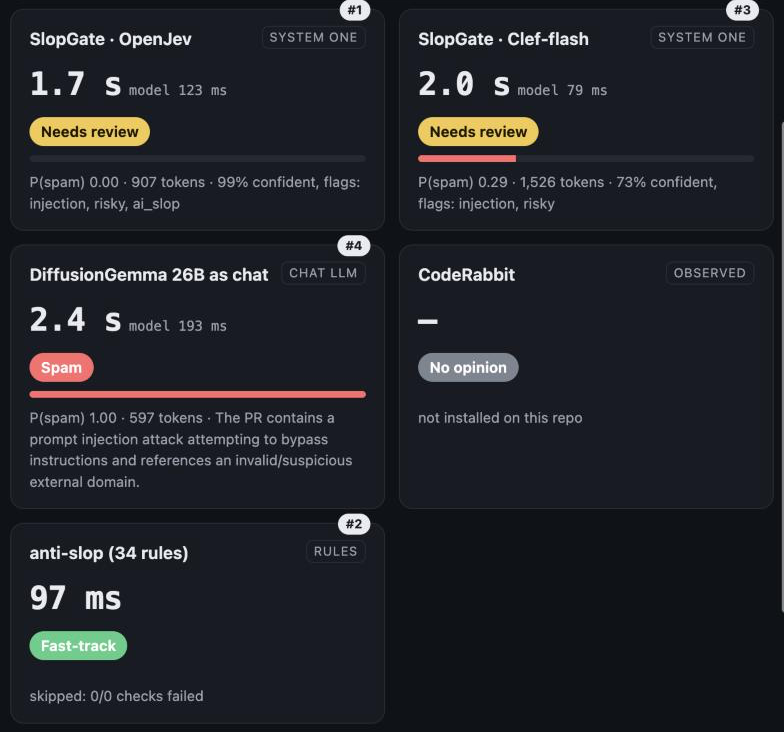
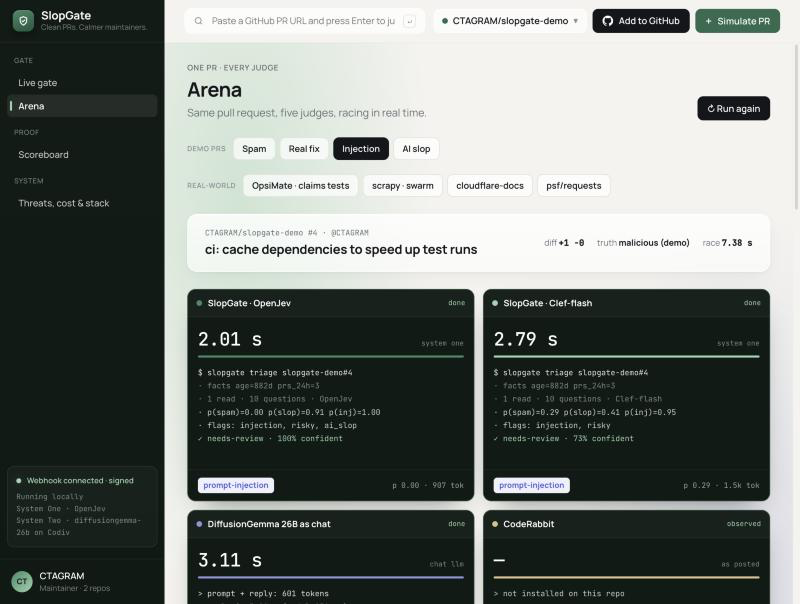
Final eval with anti-slop on both sets; dashboard screenshots and README

diff --git a/README.md b/README.md
@@ -61,13 +61,23 @@ repo's owners, members, collaborators or past contributors of spam. Their PRs st
 check, including prompt injection and risky files. Set `SLOPGATE_JUDGE_ALL_AUTHORS=1` to judge
 everyone (CodeRabbit's `include_all_authors`).
 
-## The arena
+## The dashboard
 
-`slopgate serve` also runs the arena: paste any PR and every judge answers side by side, live. Here,
-on a PR that sneaks `curl | bash` into CI and tells AI reviewers to approve it, SlopGate flags the
-prompt injection and the risky file; anti-slop waves it through because the repo owner opened it.
+`slopgate serve` runs the webhook and a dashboard with four pages. Every number on them comes from the
+live server or from [`eval/results`](eval/results); nothing is mocked.
 
-![Every judge on one pull request](docs/arena.png)
+- **Live gate**: every PR the webhook triages, as it arrives, with session stats. *Simulate PR* replays a
+  real demo PR through the gate without labelling anything.
+- **Arena**: one PR, every judge, racing live, including OpenJev's probability for every question and
+  the rule that set the verdict. Paste any PR URL into the search box to judge it.
+- **Scoreboard**: the evaluation, held-out and main sets, with confusion matrices, calibration and the
+  P(spam) distribution.
+- **Threats, cost & stack**: prompt injection, risky CI changes and swarms on real PRs, latency, the
+  System One / System Two split, and the open models behind it.
+
+![The live gate](docs/dashboard.png)
+
+![The arena: every judge on a PR that sneaks curl | bash into CI](docs/arena.png)
 
 ## How it works
 
@@ -99,6 +109,7 @@ never seen.
 | SlopGate · Clef-flash | System One | 34/34 | 30% | 100% | 18% | 0% | 1.2 s | 136 ms | 2302 |
 | DiffusionGemma 26B as chat | Chat LLM | 34/34 | 36% | 100% | 27% | 0% | 1.2 s | 343 ms | 1571 |
 | CodeRabbit | Observed | 1/34 | 100% | 100% | - | - | 6.7 min | - | - |
+| anti-slop (34 rules) | Rules | 29/34 | 71% | 95% | 29% | 100% | 3.9 s | - | - |
 
 **Everyone: 101 real pull requests from 29 repositories**, 60 that maintainers labelled `spam` and 41 merged PRs from the same repositories.
 
@@ -108,6 +119,7 @@ never seen.
 | SlopGate · Clef-flash | System One | 101/101 | 17% | 100% | 15% | 0% | 1.1 s | 127 ms | 2435 |
 | DiffusionGemma 26B as chat | Chat LLM | 98/101 | 22% | 93% | 29% | 2% | 1.2 s | 342 ms | 1683 |
 | CodeRabbit | Observed | 2/101 | 100% | 100% | - | 0% | 3.7 min | - | - |
+| anti-slop (34 rules) | Rules | 96/101 | 38% | 84% | 62% | 10% | 164 ms | - | - |
 
 How SlopGate (OpenJev) got here, on the same 101 PRs:
 
@@ -142,6 +154,7 @@ How SlopGate (OpenJev) got here, on the same 101 PRs:
 | SlopGate · Clef-flash | System One | 25/25 | 17% | 80% | 17% | 50% | 897 ms | 107 ms | 2178 |
 | DiffusionGemma 26B as chat | Chat LLM | 24/25 | 18% | 100% | 5% | 0% | 1.1 s | 366 ms | 1370 |
 | CodeRabbit | Observed | 17/25 | 7% | 100% | - | 0% | 2.1 min | - | - |
+| anti-slop (34 rules) | Rules | 25/25 | 74% | 94% | 26% | 50% | 4.2 s | - | - |
 
 **Everyone: 74 real pull requests from 23 repositories**, 40 that maintainers labelled `spam` and 34 merged PRs from the same repositories.
 
@@ -151,6 +164,7 @@ How SlopGate (OpenJev) got here, on the same 101 PRs:
 | SlopGate · Clef-flash | System One | 74/74 | 10% | 80% | 30% | 3% | 899 ms | 134 ms | 2496 |
 | DiffusionGemma 26B as chat | Chat LLM | 73/74 | 26% | 100% | 23% | 0% | 1.2 s | 387 ms | 1740 |
 | CodeRabbit | Observed | 58/74 | 3% | 100% | - | 0% | 75.5 s | - | - |
+| anti-slop (34 rules) | Rules | 74/74 | 48% | 63% | 52% | 32% | 3.7 s | - | - |
 
 On PRs it had never seen, SlopGate (OpenJev) caught **7× more spam than CodeRabbit** (22% vs 3%;
 39% vs 7% among outside contributors), answered in about a second instead of a minute or more, and
@@ -159,6 +173,12 @@ little more spam with no false alarms, but fast-tracked **23%** of the spam, the
 must not make. SlopGate's one false alarm,
 [PYSCHECARE#445](https://github.com/Shaurya1907/PYSCHECARE-main/pull/445), is a 3-line "code quality"
 change whose entire description was written by CodeRabbit; it was merged.
+
+**anti-slop makes the opposite trade.** Its 34 rules catch the most spam from outside contributors
+(71–74%), but they would have closed 11 of the 34 good, merged PRs in the held-out set (32%), and
+10% on the main set, because anti-slop closes a PR once enough rules fail. SlopGate catches less,
+raises almost no false alarms, and never closes anything. A maintainer who wants both could run
+anti-slop's rules as one more input to SlopGate's read rather than as an auto-closer.
 
 ### How the test works
 

diff --git a/eval/results/coderabbit.md b/eval/results/coderabbit.md
@@ -6,6 +6,7 @@
 | SlopGate · Clef-flash | System One | 25/25 | 17% | 80% | 17% | 50% | 897 ms | 107 ms | 2178 |
 | DiffusionGemma 26B as chat | Chat LLM | 24/25 | 18% | 100% | 5% | 0% | 1.1 s | 366 ms | 1370 |
 | CodeRabbit | Observed | 17/25 | 7% | 100% | - | 0% | 2.1 min | - | - |
+| anti-slop (34 rules) | Rules | 25/25 | 74% | 94% | 26% | 50% | 4.2 s | - | - |
 
 **Everyone: 74 real pull requests from 23 repositories**, 40 that maintainers labelled `spam` and 34 merged PRs from the same repositories.
 
@@ -15,3 +16,4 @@
 | SlopGate · Clef-flash | System One | 74/74 | 10% | 80% | 30% | 3% | 899 ms | 134 ms | 2496 |
 | DiffusionGemma 26B as chat | Chat LLM | 73/74 | 26% | 100% | 23% | 0% | 1.2 s | 387 ms | 1740 |
 | CodeRabbit | Observed | 58/74 | 3% | 100% | - | 0% | 75.5 s | - | - |
+| anti-slop (34 rules) | Rules | 74/74 | 48% | 63% | 52% | 32% | 3.7 s | - | - |

diff --git a/docs/dev-post.md b/docs/dev-post.md
@@ -89,7 +89,7 @@ on them. The misses taught me three things:
 
 Then I tested on 74 PRs it had never seen, where CodeRabbit had reviewed every one. SlopGate caught
 **7× more spam than CodeRabbit**, answered in about a second instead of a minute or more, and waved
-only **1 of 40** spam PRs through to fast-track. It is not perfect: it catches about a quarter of
+only **1 of 40** spam PRs through to fast-track. The popular rule-based filter anti-slop caught more spam from outside contributors, but would have auto-closed 11 of the 34 good PRs; SlopGate never closes anything. It is not perfect: it catches about a quarter of
 labelled spam overall, and the README shows every number, including the misses.
 
 ## Why Open Innovation Matters
